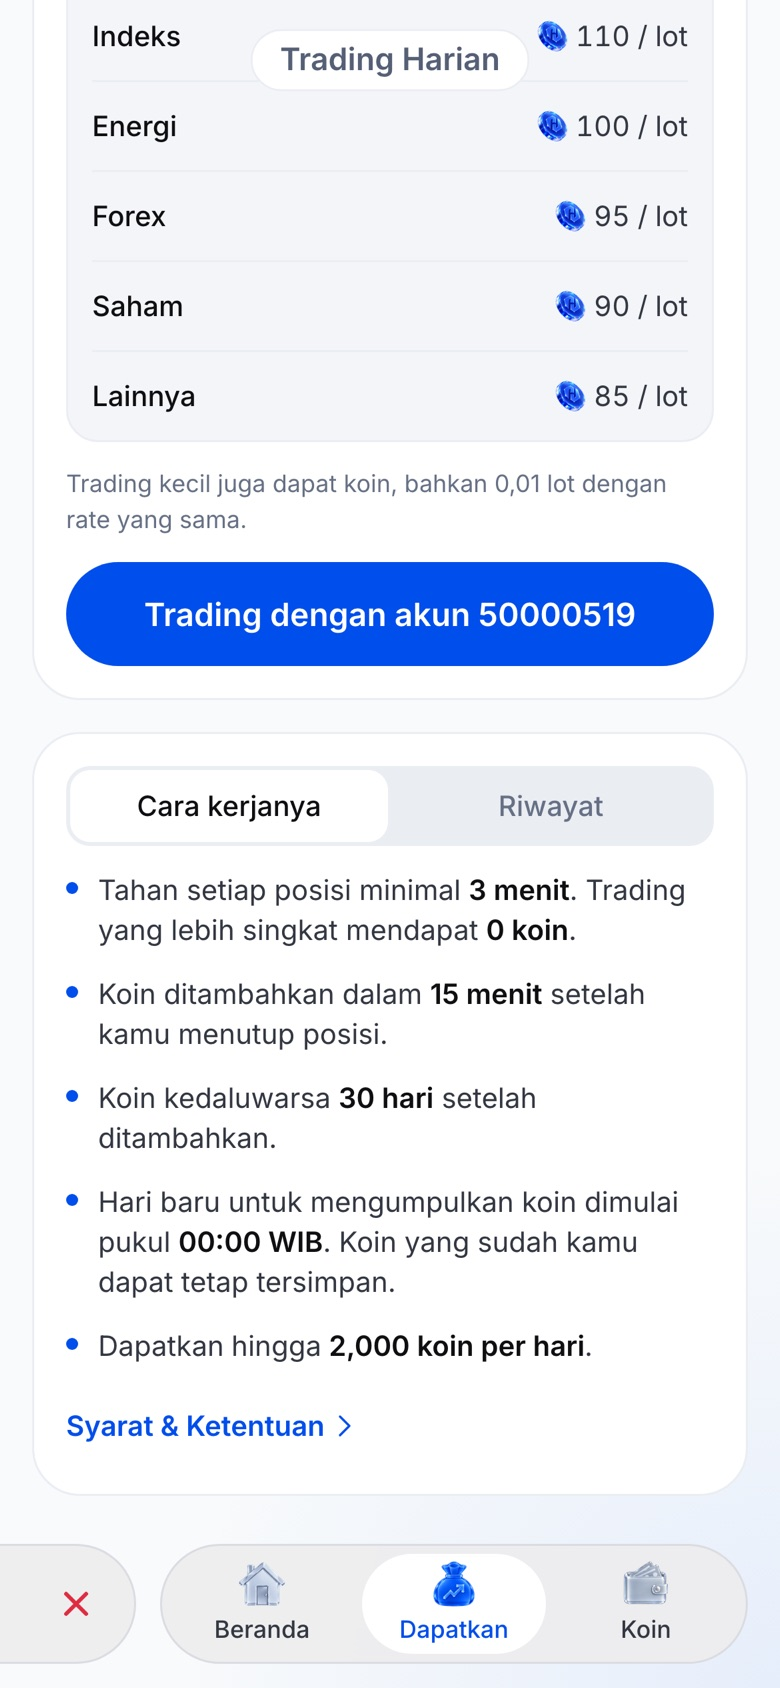
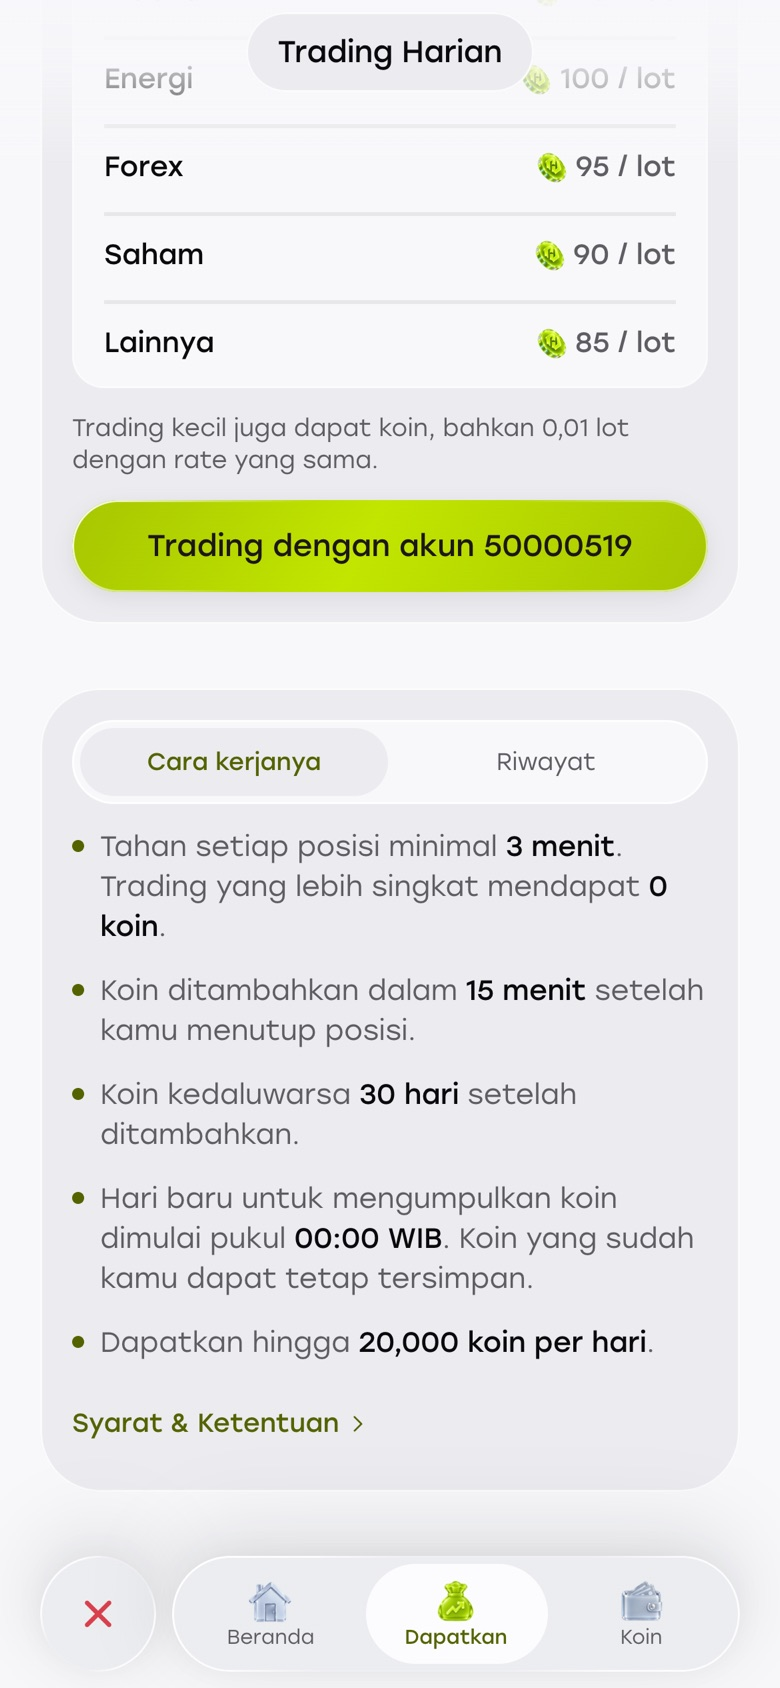
New Loyalty UI screenshots; drop T&C sheet shot; hide old Home entry shot until a new one arrives

diff --git a/index.html b/index.html
@@ -361,7 +361,7 @@ footer .wrap{display:flex;flex-wrap:wrap;gap:12px;justify-content:space-between}
 
     <div class="journey">
       <div class="jstep">
-        <div class="phones"><figure class="phone"><img src="images/id/00_app_entry.jpg" alt="Ikon HSB Loyalty di Beranda aplikasi HSB" loading="lazy" onerror="this.parentNode.classList.add('missing')"><span class="ph">00</span></figure><figure class="phone"><img src="images/id/02_beranda_tur.jpg" alt="Tur pertama kali" loading="lazy" onerror="this.parentNode.classList.add('missing')"><span class="ph">02</span></figure></div>
+        <div class="phones"><figure class="phone"><img src="images/id/02_beranda_tur.jpg" alt="Tur pertama kali" loading="lazy" onerror="this.parentNode.classList.add('missing')"><span class="ph">02</span></figure></div>
         <div class="jtext"><span class="k"><span class="id">LANGKAH 1</span><span class="en">STEP 1</span></span>
           <h3><span class="id">Buka Loyalty dari aplikasi HSB</span><span class="en">Open Loyalty from the HSB app</span></h3>
           <p><span class="id">Di <b>Beranda</b> aplikasi HSB, nasabah menekan ikon <b>HSB Loyalty</b> <img src="images/coin-128.png" alt="" style="width:22px;height:22px;vertical-align:-5px"> (koin hijau dengan logo HSB, label <b>HOT</b>) di baris menu pintas. Saat pertama kali masuk, muncul tur singkat yang menjelaskan cara dapat dan menukar koin (bisa dilewati).</span><span class="en">On the HSB app <b>Home</b> screen, the client taps the <b>HSB Loyalty</b> icon <img src="images/coin-128.png" alt="" style="width:22px;height:22px;vertical-align:-5px"> (a green coin with the HSB logo, with the <b>HOT</b> tag) in the shortcut row. On the first visit, a short tour explains how to earn and redeem coins (it can be skipped).</span></p></div>
@@ -374,7 +374,7 @@ footer .wrap{display:flex;flex-wrap:wrap;gap:12px;justify-content:space-between}
         </div>
         <div class="jtext"><span class="k"><span class="id">LANGKAH 2</span><span class="en">STEP 2</span></span>
           <h3><span class="id">Beranda: saldo koin, tier &amp; hadiah</span><span class="en">Home: coin balance, tier &amp; rewards</span></h3>
-          <p><span class="id">Di bagian atas: <b>Saldo Koin</b> dan label tier. Di bawahnya ada aktivitas terbaru nasabah lain dan katalog hadiah dengan harga koin. Kartu kuning <b>"Dapatkan lebih banyak koin"</b> membawa ke halaman cara dapat koin.</span><span class="en">At the top: <b>Coin Balance</b> and the tier label. Below are other clients' recent activity and the reward catalogue with coin prices. The yellow <b>"Get more coins"</b> card leads to the earning page.</span></p>
+          <p><span class="id">Di bagian atas: <b>Saldo Koin</b> dan label tier. Di bawahnya ada aktivitas terbaru nasabah lain dan katalog hadiah dengan harga koin. Kartu hitam <b>"Dapatkan lebih banyak koin"</b> membawa ke halaman cara dapat koin.</span><span class="en">At the top: <b>Coin Balance</b> and the tier label. Below are other clients' recent activity and the reward catalogue with coin prices. The dark <b>"Get more coins"</b> card leads to the earning page.</span></p>
           <div class="tip"><b><span class="id">Sering ditanya</span><span class="en">Often asked</span></b><span><span class="id">"Koin saya di mana?" → angka besar di pojok kiri atas. "Tier itu apa?" → label di samping saldo.</span><span class="en">"Where are my coins?" → the big number top-left. "What is a tier?" → the label next to the balance.</span></span></div></div>
       </div>
 
@@ -396,7 +396,7 @@ footer .wrap{display:flex;flex-wrap:wrap;gap:12px;justify-content:space-between}
         </div>
         <div class="jtext"><span class="k"><span class="id">LANGKAH 4</span><span class="en">STEP 4</span></span>
           <h3><span class="id">Tier akun, rate &amp; "Cara kerjanya"</span><span class="en">Account tier, rates &amp; "How it works"</span></h3>
-          <p><span class="id">Nasabah bisa melihat tier akunnya dan rate koin per lot untuk setiap grup simbol. Trading kecil (0,01 lot) juga dapat koin dengan rate yang sama. Bagian <b>"Cara kerjanya"</b> merangkum aturan: minimal tahan posisi, waktu koin masuk, masa berlaku, dan link S&amp;K.</span><span class="en">Clients can see their account tier and the coin rate per lot for each symbol group. Small trades (0.01 lot) also earn coins at the same rate. <b>"How it works"</b> sums up the rules: minimum hold time, crediting time, expiry, and the T&amp;C link.</span></p>
+          <p><span class="id">Nasabah bisa melihat tier akunnya dan rate koin per lot untuk setiap grup simbol. Trading kecil (0,01 lot) juga dapat koin dengan rate yang sama. Bagian <b>"Cara kerjanya"</b> merangkum aturan: minimal tahan posisi, waktu koin masuk, masa berlaku, batas koin harian (hari baru mulai pukul 00:00 WIB), dan link S&amp;K yang membuka dokumen S&amp;K di aplikasi.</span><span class="en">Clients can see their account tier and the coin rate per lot for each symbol group. Small trades (0.01 lot) also earn coins at the same rate. <b>"How it works"</b> sums up the rules: minimum hold time, crediting time, expiry, the daily coin limit (a new day starts at 00:00 WIB), and the T&amp;C link, which opens the T&amp;C document in the app.</span></p>
           <div class="tip"><b><span class="id">Ingat</span><span class="en">Remember</span></b><span><span class="id">Rate dan masa berlaku di screenshot adalah contoh. Gunakan tabel di bagian 03 dan masa berlaku 180 hari sesuai S&amp;K.</span><span class="en">Rates and expiry in the screenshots are samples. Use the table in section 03 and the 180-day validity from the T&amp;C.</span></span></div></div>
       </div>
 
@@ -421,7 +421,7 @@ footer .wrap{display:flex;flex-wrap:wrap;gap:12px;justify-content:space-between}
         </div>
         <div class="jtext"><span class="k"><span class="id">LANGKAH 6</span><span class="en">STEP 6</span></span>
           <h3><span class="id">Tab Koin: saldo, kedaluwarsa &amp; riwayat</span><span class="en">Coins tab: balance, expiry &amp; history</span></h3>
-          <p><span class="id">Nasabah melihat saldo, peringatan koin yang akan kedaluwarsa, dan setiap kelompok koin beserta tanggal kedaluwarsanya. Tab <b>Riwayat</b> menampilkan koin masuk/keluar per jam.</span><span class="en">Clients see their balance, a warning for coins about to expire, and each coin batch with its expiry date. The <b>History</b> tab lists coins in/out by time.</span></p>
+          <p><span class="id">Nasabah melihat saldo dan peringatan koin yang akan kedaluwarsa. Tab <b>Tersedia</b> menampilkan setiap kelompok koin, sisa koin, dan tanggal kedaluwarsanya; tab <b>Kedaluwarsa</b> menampilkan koin yang sudah hangus. Tab <b>Riwayat</b> menampilkan koin masuk/keluar per jam.</span><span class="en">Clients see their balance and a warning for coins about to expire. The <b>Available</b> tab lists each coin batch, what is left of it, and its expiry date; the <b>Expired</b> tab lists coins that have lapsed. The <b>History</b> tab lists coins in/out by time.</span></p>
           <div class="tip"><b><span class="id">Penting</span><span class="en">Key point</span></b><span><span class="id">Saat menukar, <b>koin yang paling cepat kedaluwarsa dipakai lebih dulu</b>.</span><span class="en">When redeeming, <b>coins that expire soonest are used first</b>.</span></span></div></div>
       </div>
 
